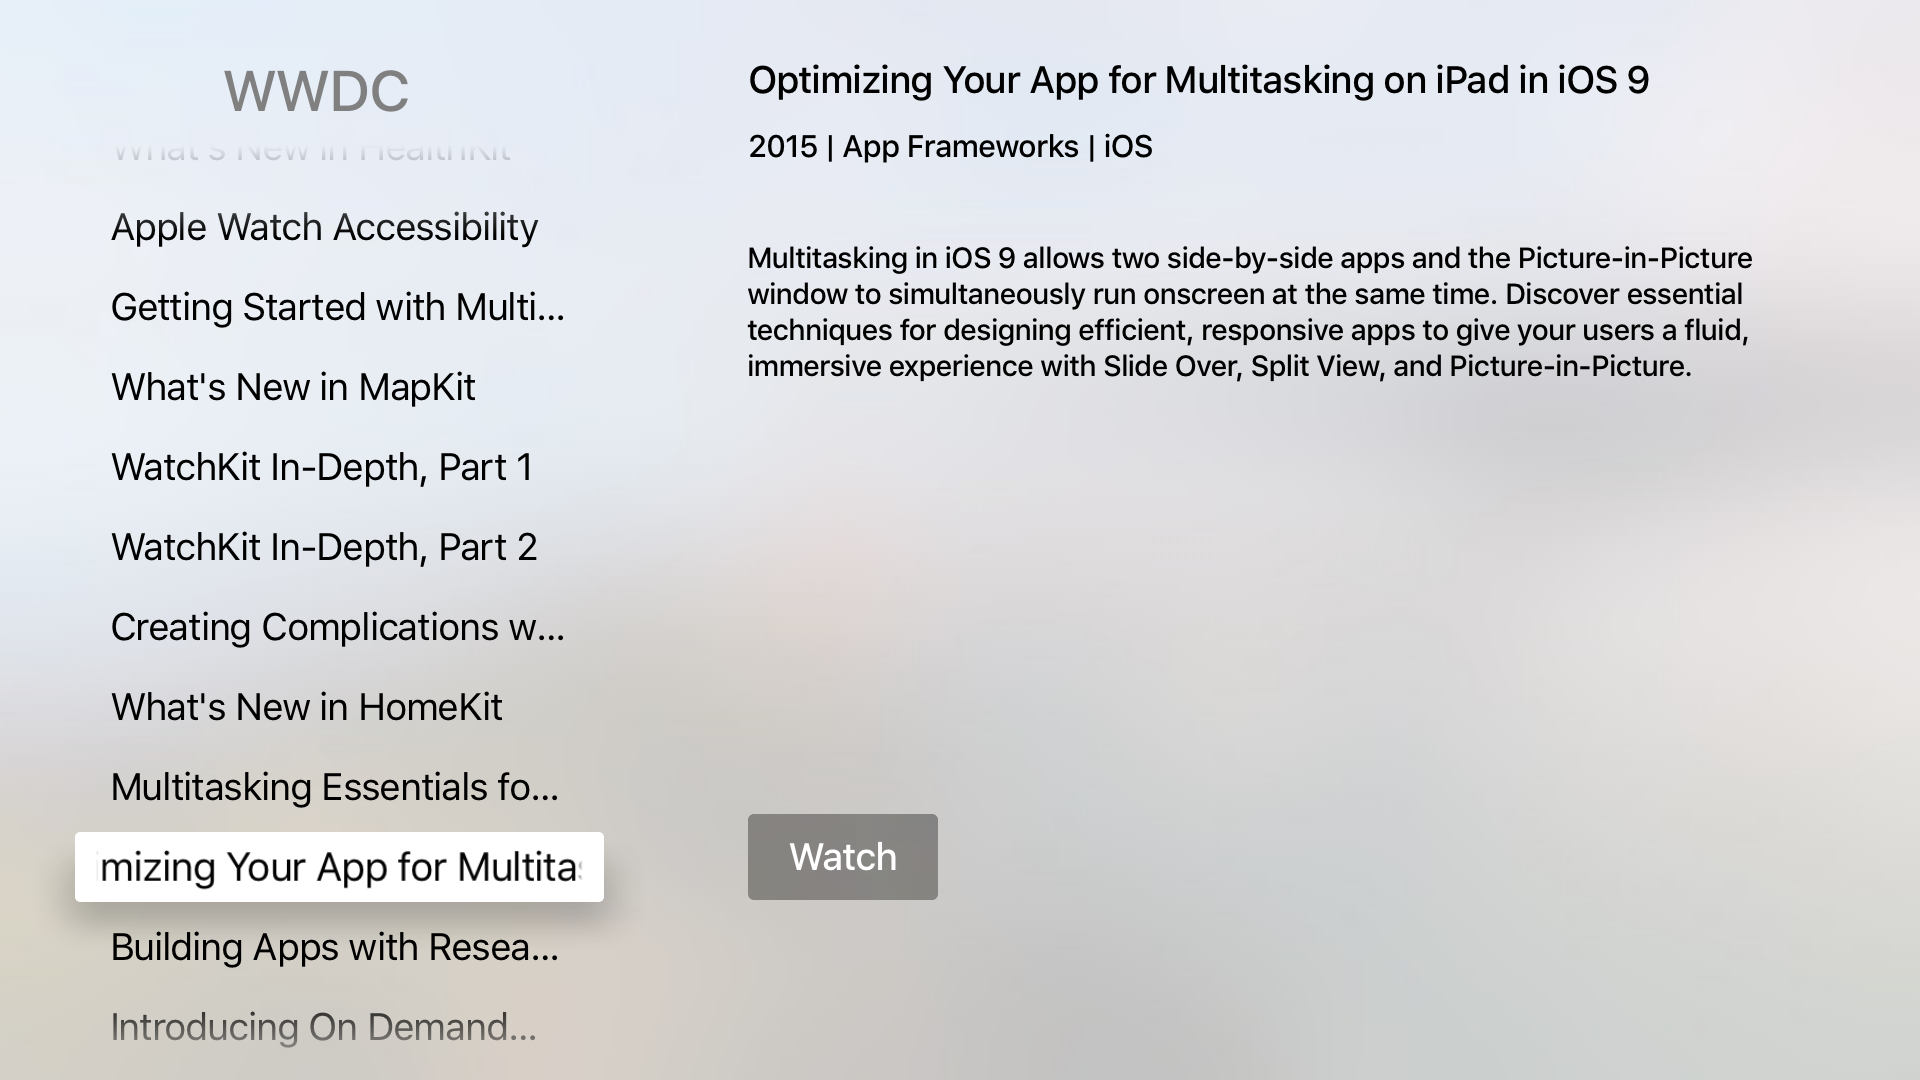
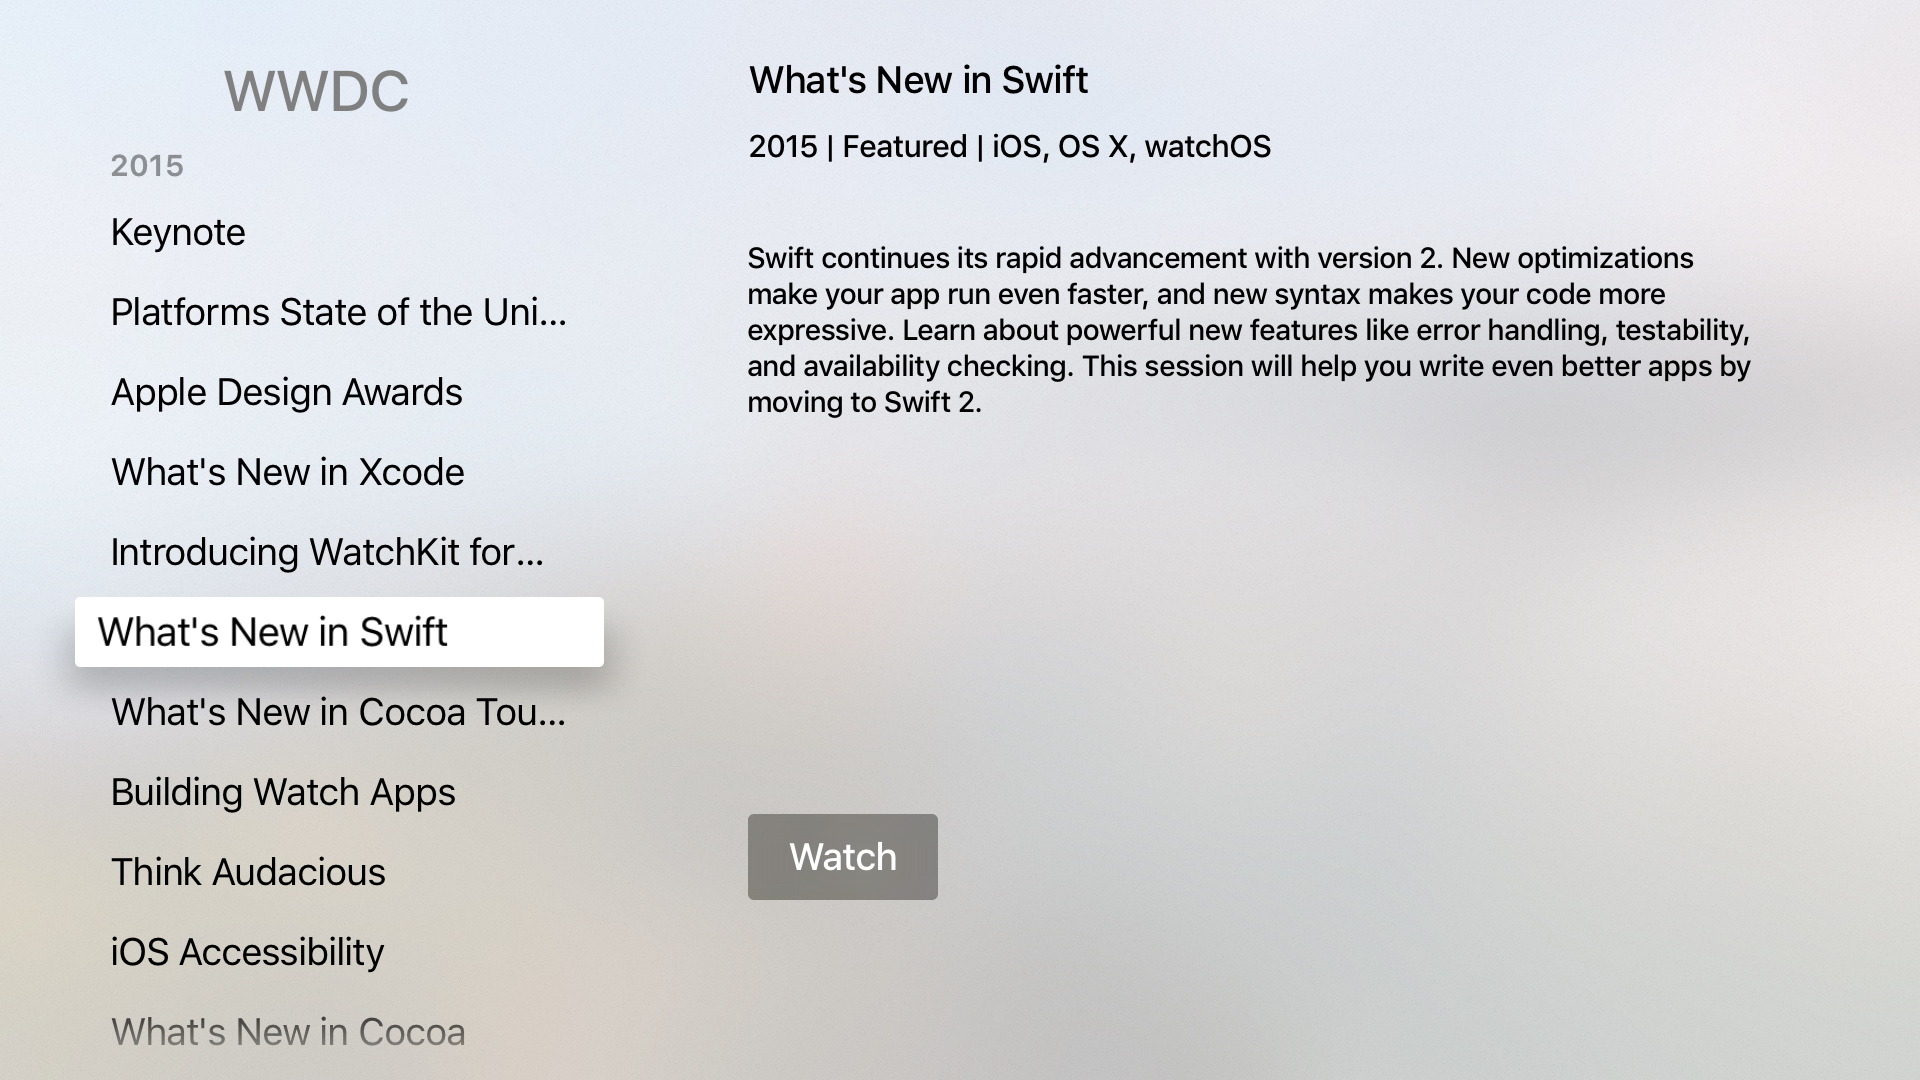
Updated screenshot and readme

diff --git a/README.md b/README.md
@@ -1,7 +1,5 @@
 # WWDC app for the new Apple TV
 
-### Important: this is a work in progress, don't expect anything to work (yet) :P
-
 Don't like WWDC's website? Use this app to watch WWDC sessions on your Apple TV.
 
 Based on [WWDC for OS X](https://github.com/insidegui/WWDC).
